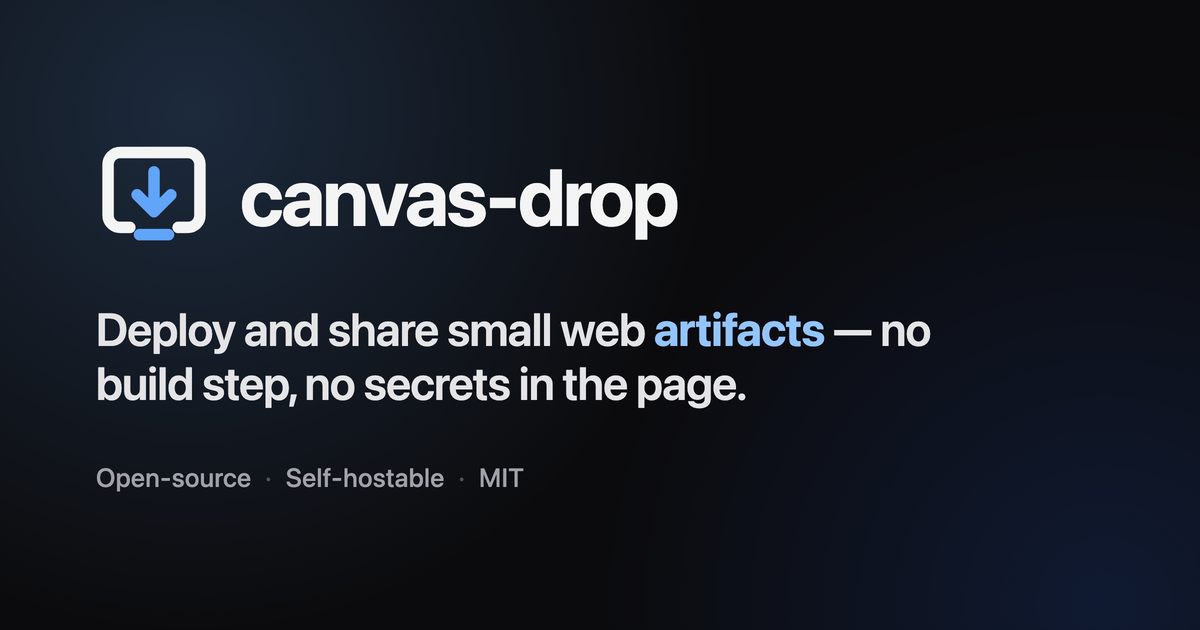
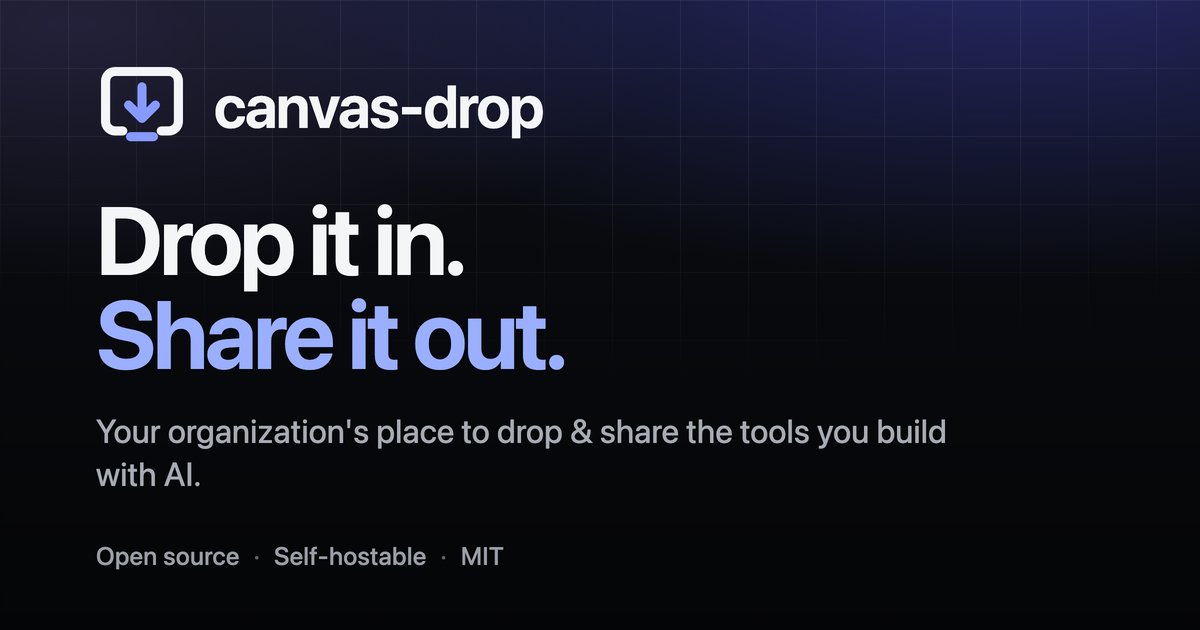
feat(web): rebrand the OG card and unify SEO/OG tags across public pages
The single shared /og.png card now matches the new hero — dark indigo-violet
gradient + faint grid motif, the "Drop it in. Share it out." headline (accent on
the second line), and the new subhead. Because every surface points at /og.png,
this re-skins every unfurl at once: the landing, docs, legal pages, and the
signed-out + per-canvas social-preview cards users share.

Also factor the duplicated per-page OG/Twitter meta into one shared `ogMeta`
helper (http/social-meta.ts), used by the landing, legal, and docs pages, so the
indexable surfaces emit a consistent set — description, canonical, robots
index,follow, og:* (incl. og:image:alt), and twitter:* — instead of three drifting
copies. Legal/docs gain the canonical + robots + og:image:alt they were missing;
theme-color is intentionally left per-page (legal stays light-only).

Also folds in the welcome-page spacing pass: tighter hero top, the guided tour
moved directly under the hero, and consistent, compact inter-section rhythm.

diff --git a/apps/server/src/http/landing-page.ts b/apps/server/src/http/landing-page.ts
@@ -5,6 +5,7 @@ import { SESSION_COOKIE } from "../auth/session.js";
 import { BRAND_MARK } from "./brand.js";
 import { escapeHtml } from "./error-pages.js";
 import { baseSecurityHeaders } from "./security-headers.js";
+import { ogMeta } from "./social-meta.js";
 import type { AppEnv } from "./types.js";
 
 /**
@@ -194,7 +195,6 @@ function head(origin: string): string {
   const title = `${SITE.name} · ${SITE.tagline}`;
   const desc = SITE.metaDescription;
   const url = `${base}/`;
-  const image = `${base}/og.png`;
   const jsonLd = JSON.stringify({
     "@context": "https://schema.org",
     "@type": "WebSite",
@@ -206,25 +206,10 @@ function head(origin: string): string {
   return `<meta charset="utf-8">
 <meta name="viewport" content="width=device-width, initial-scale=1">
 <title>${escapeHtml(title)}</title>
-<meta name="description" content="${escapeHtml(desc)}">
-<link rel="canonical" href="${escapeHtml(url)}">
+${ogMeta({ origin, path: "/", title, description: desc })}
 <link rel="alternate" type="text/plain" href="/llms.txt" title="LLM-readable docs">
-<meta name="robots" content="index,follow">
 <meta name="theme-color" content="#0b0b0f" media="(prefers-color-scheme: dark)">
 <meta name="theme-color" content="#f7f7f5" media="(prefers-color-scheme: light)">
-<meta property="og:type" content="website">
-<meta property="og:site_name" content="${escapeHtml(SITE.name)}">
-<meta property="og:title" content="${escapeHtml(title)}">
-<meta property="og:description" content="${escapeHtml(desc)}">
-<meta property="og:url" content="${escapeHtml(url)}">
-<meta property="og:image" content="${escapeHtml(image)}">
-<meta property="og:image:width" content="1200">
-<meta property="og:image:height" content="630">
-<meta property="og:image:alt" content="${escapeHtml(SITE.name)}">
-<meta name="twitter:card" content="summary_large_image">
-<meta name="twitter:title" content="${escapeHtml(title)}">
-<meta name="twitter:description" content="${escapeHtml(desc)}">
-<meta name="twitter:image" content="${escapeHtml(image)}">
 <script type="application/ld+json">${jsonLd}</script>
 <style>${STYLES}</style>`;
 }
@@ -346,7 +331,7 @@ header {
   mask-image: radial-gradient(120% 80% at 50% 0%, #000 35%, transparent 72%);
   opacity: .5;
 }
-.hero-inner { position: relative; padding-block: clamp(1.4rem, 3.2vw, 2.4rem) clamp(2.5rem, 6vw, 4rem); }
+.hero-inner { position: relative; padding-block: clamp(0.75rem, 2vw, 1.5rem) clamp(1.25rem, 2.5vw, 2rem); }
 .eyebrow {
   display: inline-flex; align-items: center; gap: .5rem;
   font-size: .8rem; letter-spacing: .02em; color: var(--on-ink-muted);
@@ -366,7 +351,7 @@ h1 .accent { color: oklch(0.78 0.15 274); }
 
 /* hero product shot in a browser frame */
 .frame {
-  margin-top: clamp(2.5rem, 6vw, 4rem);
+  margin-top: clamp(1.5rem, 3.5vw, 2.5rem);
   border: 1px solid var(--on-ink-border); border-radius: .875rem; overflow: hidden;
   background: var(--ink-2); box-shadow: var(--shadow-lg);
 }
@@ -376,13 +361,13 @@ h1 .accent { color: oklch(0.78 0.15 274); }
 .frame img { display: block; width: 100%; height: auto; }
 
 /* --- section scaffolding --- */
-section { padding-block: clamp(3.5rem, 8vw, 6rem); }
+section { padding-block: clamp(1.5rem, 3vw, 2.25rem); }
 .kicker { font-size: .8rem; letter-spacing: .08em; text-transform: uppercase; color: var(--accent); font-weight: 600; }
 .s-head { max-width: 34ch; margin: .7rem 0 0; font-size: clamp(1.7rem, 4vw, 2.5rem); line-height: 1.08; letter-spacing: -.025em; font-weight: 640; }
 .s-sub { max-width: 52ch; margin: .9rem 0 0; color: var(--muted); font-size: 1.05rem; }
 
 /* value band */
-.values { display: grid; gap: clamp(1.5rem, 4vw, 2.5rem); grid-template-columns: repeat(3, 1fr); margin-top: clamp(2rem, 5vw, 3rem); }
+.values { display: grid; gap: clamp(1.5rem, 4vw, 2.5rem); grid-template-columns: repeat(3, 1fr); margin-top: clamp(1.5rem, 3.5vw, 2.25rem); }
 @media (max-width: 800px) { .values { grid-template-columns: 1fr; } }
 .value h3 { margin: 0 0 .5rem; font-size: 1.15rem; letter-spacing: -.01em; }
 .value .num { font-family: "Geist Mono Variable", ui-monospace, monospace; color: var(--accent); font-size: .85rem; }
@@ -390,7 +375,7 @@ section { padding-block: clamp(3.5rem, 8vw, 6rem); }
 .value { border-top: 1px solid var(--border); padding-top: 1.1rem; }
 
 /* primitives showcase */
-.prims { display: grid; gap: 1px; grid-template-columns: repeat(5, 1fr); margin-top: clamp(2rem, 5vw, 3rem); background: var(--border); border: 1px solid var(--border); border-radius: .875rem; overflow: hidden; }
+.prims { display: grid; gap: 1px; grid-template-columns: repeat(5, 1fr); margin-top: clamp(1.5rem, 3.5vw, 2.25rem); background: var(--border); border: 1px solid var(--border); border-radius: .875rem; overflow: hidden; }
 @media (max-width: 900px) { .prims { grid-template-columns: repeat(2, 1fr); } }
 @media (max-width: 520px) { .prims { grid-template-columns: 1fr; } }
 .prim { background: var(--surface); padding: 1.5rem 1.35rem; transition: background .15s var(--ease), transform .15s var(--ease); }
@@ -422,7 +407,7 @@ footer { background: var(--surface); border-top: 1px solid var(--border); paddin
 .colophon { width: 100%; margin-top: 1.75rem; padding-top: 1.5rem; border-top: 1px solid var(--border); color: var(--subtle); font-size: .82rem; }
 
 /* product tour carousel */
-.carousel { position: relative; margin-top: clamp(2rem, 5vw, 3rem); }
+.carousel { position: relative; margin-top: clamp(1.5rem, 3.5vw, 2.25rem); }
 .viewport { overflow: hidden; }
 .slides { display: flex; transition: transform .55s var(--ease); }
 .slide { min-width: 100%; padding: 0 .25rem; }
@@ -451,7 +436,7 @@ footer { background: var(--surface); border-top: 1px solid var(--border); paddin
 .dot[aria-current="true"] { background: var(--accent); width: 1.5rem; }
 
 /* feature grids (Built for teams / Private by design) */
-.feats { display: grid; grid-template-columns: repeat(2, 1fr); gap: clamp(1.25rem, 3vw, 2.25rem); margin-top: clamp(2rem, 5vw, 3rem); }
+.feats { display: grid; grid-template-columns: repeat(2, 1fr); gap: clamp(1.25rem, 3vw, 2.25rem); margin-top: clamp(1.5rem, 3.5vw, 2.25rem); }
 @media (max-width: 720px) { .feats { grid-template-columns: 1fr; } }
 .feat { border-top: 1px solid var(--border); padding-top: 1rem; }
 .feat h3 { margin: 0 0 .35rem; display: flex; align-items: flex-start; gap: .55rem; font-size: 1.05rem; letter-spacing: -.01em; }
@@ -569,16 +554,6 @@ ${head(origin)}
     </div>
   </section>
 
-  <section>
-    <div class="wrap">
-      <p class="kicker reveal">Why canvas-drop</p>
-      <h2 class="s-head reveal">From “I built a thing” to “the team is using it” — without a deploy pipeline.</h2>
-      <div class="values">
-${values}
-      </div>
-    </div>
-  </section>
-
   <section style="background:var(--surface-sunken);border-block:1px solid var(--border)">
     <div class="wrap">
       <p class="kicker reveal">A guided tour</p>
@@ -601,6 +576,16 @@ ${TOUR.map((t, i) => `          <button class="dot" type="button" role="tab" ari
 
   <section>
     <div class="wrap">
+      <p class="kicker reveal">Why canvas-drop</p>
+      <h2 class="s-head reveal">From “I built a thing” to “the team is using it” — without a deploy pipeline.</h2>
+      <div class="values">
+${values}
+      </div>
+    </div>
+  </section>
+
+  <section style="background:var(--surface-sunken);border-block:1px solid var(--border)">
+    <div class="wrap">
       <p class="kicker reveal">Five primitives</p>
       <h2 class="s-head reveal">Static canvases, real backend power.</h2>
       <p class="s-sub reveal">Canvases ship as static files — no server build. When a canvas needs more, it reaches exactly five audited primitives. Secrets stay server-side, always.</p>
@@ -610,7 +595,7 @@ ${PRIMITIVES.map(primitiveCard).join("\n")}
     </div>
   </section>
 
-  <section style="background:var(--surface-sunken);border-block:1px solid var(--border)">
+  <section>
     <div class="wrap">
       <p class="kicker reveal">Built for teams</p>
       <h2 class="s-head reveal">Control, without the overhead.</h2>

diff --git a/apps/server/src/http/social-meta.ts b/apps/server/src/http/social-meta.ts
@@ -1,0 +1,51 @@
+import { escapeHtml } from "./error-pages.js";
+
+/**
+ * One consistent block of SEO + Open Graph + Twitter card tags for the indexable,
+ * self-rendered public pages — the landing (`/`), legal (`/privacy`, `/terms`),
+ * and docs (`/docs/*`). Centralizing it means every shared link unfurls
+ * identically and the tags can't drift between surfaces. The image is the single
+ * shared `/og.png` card (`pnpm og:build`).
+ *
+ * Deliberately excludes `theme-color` (page-chrome, not SEO — the legal pages are
+ * light-only) and JSON-LD / `llms.txt` hints (landing-only). The signed-out
+ * social-preview shells are a separate, intentionally `noindex` case and build
+ * their own minimal tags.
+ *
+ * `origin` is `config.baseUrl` (crawlers require absolute URLs); `path` is the
+ * page's absolute path (for `canonical` + `og:url`); `title` / `description` are
+ * the page's own, already composed by the caller.
+ */
+export function ogMeta(opts: {
+  origin: string;
+  path: string;
+  title: string;
+  description: string;
+}): string {
+  const base = opts.origin.replace(/\/$/, "");
+  const url = escapeHtml(`${base}${opts.path}`);
+  const image = escapeHtml(`${base}/og.png`);
+  const t = escapeHtml(opts.title);
+  const d = escapeHtml(
+    opts.description
+      .replace(/<[^>]+>/g, "")
+      .replace(/\s+/g, " ")
+      .trim(),
+  );
+  return `<meta name="description" content="${d}">
+<link rel="canonical" href="${url}">
+<meta name="robots" content="index,follow">
+<meta property="og:type" content="website">
+<meta property="og:site_name" content="canvas-drop">
+<meta property="og:title" content="${t}">
+<meta property="og:description" content="${d}">
+<meta property="og:url" content="${url}">
+<meta property="og:image" content="${image}">
+<meta property="og:image:width" content="1200">
+<meta property="og:image:height" content="630">
+<meta property="og:image:alt" content="canvas-drop — drop it in, share it out">
+<meta name="twitter:card" content="summary_large_image">
+<meta name="twitter:title" content="${t}">
+<meta name="twitter:description" content="${d}">
+<meta name="twitter:image" content="${image}">`;
+}

diff --git a/apps/server/src/http/legal-pages.ts b/apps/server/src/http/legal-pages.ts
@@ -3,6 +3,7 @@ import { Hono } from "hono";
 import { BRAND_MARK } from "./brand.js";
 import { escapeAttribute, escapeHtml } from "./error-pages.js";
 import { baseSecurityHeaders } from "./security-headers.js";
+import { ogMeta } from "./social-meta.js";
 import type { AppEnv } from "./types.js";
 
 /**
@@ -49,31 +50,11 @@ function htmlResponse(html: string): Response {
   return new Response(html, { status: 200, headers });
 }
 
-/** Open Graph + Twitter card tags. `origin` (config.baseUrl) makes the image/URL
- *  absolute — social crawlers require that; the card is served publicly at /og.png. */
+/** SEO + Open Graph + Twitter tags via the shared {@link ogMeta} builder, so the
+ *  legal pages unfurl identically to the landing + docs. The title is suffixed
+ *  with the brand; the page stays light-only (no `theme-color` is added here). */
 function socialMeta(path: string, title: string, description: string, origin: string): string {
-  const base = origin.replace(/\/$/, "");
-  const t = escapeHtml(`${title} · canvas-drop`);
-  const d = escapeHtml(
-    description
-      .replace(/<[^>]+>/g, "")
-      .replace(/\s+/g, " ")
-      .trim(),
-  );
-  const image = escapeHtml(`${base}/og.png`);
-  return `<meta name="description" content="${d}">
-<meta property="og:type" content="website">
-<meta property="og:site_name" content="canvas-drop">
-<meta property="og:title" content="${t}">
-<meta property="og:description" content="${d}">
-<meta property="og:url" content="${escapeHtml(`${base}${path}`)}">
-<meta property="og:image" content="${image}">
-<meta property="og:image:width" content="1200">
-<meta property="og:image:height" content="630">
-<meta name="twitter:card" content="summary_large_image">
-<meta name="twitter:title" content="${t}">
-<meta name="twitter:description" content="${d}">
-<meta name="twitter:image" content="${image}">`;
+  return ogMeta({ origin, path, title: `${title} · canvas-drop`, description });
 }
 
 /** Shared minimal, light-mode-only page chrome (logo + wordmark, title, body). */

diff --git a/apps/server/src/docs/render.ts b/apps/server/src/docs/render.ts
@@ -5,6 +5,7 @@ import {
   SYSTEM_PAGE_BRAND_INLINE,
   SYSTEM_PAGE_STYLES,
 } from "../http/error-pages.js";
+import { ogMeta } from "../http/social-meta.js";
 import { DOC_NAV, DOC_PAGES, type DocPage } from "./generated-content.js";
 
 /**
@@ -225,28 +226,11 @@ function summarize(text: string): string {
   return flat.length > 160 ? `${flat.slice(0, 157).trimEnd()}…` : flat;
 }
 
-/** Open Graph + Twitter card tags for a doc page. `origin` is the instance's
- *  public base URL (config.baseUrl) so the image/URL are absolute — social
- *  crawlers require that. The card image is served publicly at `/og.png`. */
+/** SEO + Open Graph + Twitter tags via the shared {@link ogMeta} builder, so a
+ *  doc page unfurls identically to the landing + legal pages. `path` is the raw
+ *  doc path; `href` maps it to the public `/docs/...` URL for canonical + og:url. */
 function socialMeta(path: string, title: string, description: string, origin: string): string {
-  const base = origin.replace(/\/$/, "");
-  const url = `${base}${href(path)}`;
-  const image = `${base}/og.png`;
-  const t = escapeHtml(title);
-  const d = escapeHtml(description);
-  return `<meta name="description" content="${d}">
-<meta property="og:type" content="website">
-<meta property="og:site_name" content="canvas-drop">
-<meta property="og:title" content="${t}">
-<meta property="og:description" content="${d}">
-<meta property="og:url" content="${escapeHtml(url)}">
-<meta property="og:image" content="${escapeHtml(image)}">
-<meta property="og:image:width" content="1200">
-<meta property="og:image:height" content="630">
-<meta name="twitter:card" content="summary_large_image">
-<meta name="twitter:title" content="${t}">
-<meta name="twitter:description" content="${d}">
-<meta name="twitter:image" content="${escapeHtml(image)}">`;
+  return ogMeta({ origin, path: href(path), title, description });
 }
 
 /** Render the full HTML for a doc page, or null if the path is unknown.